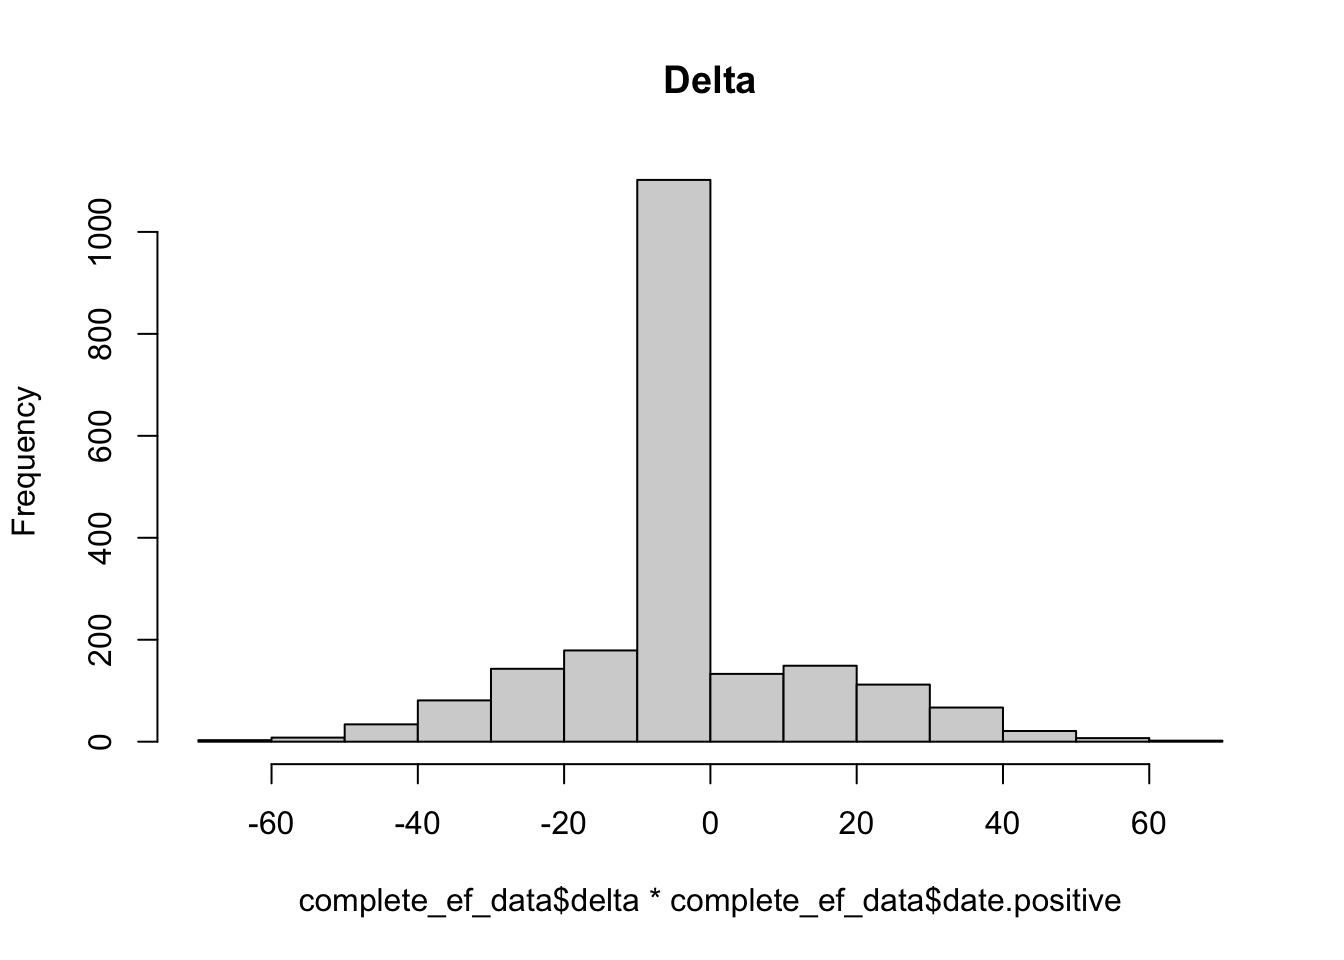
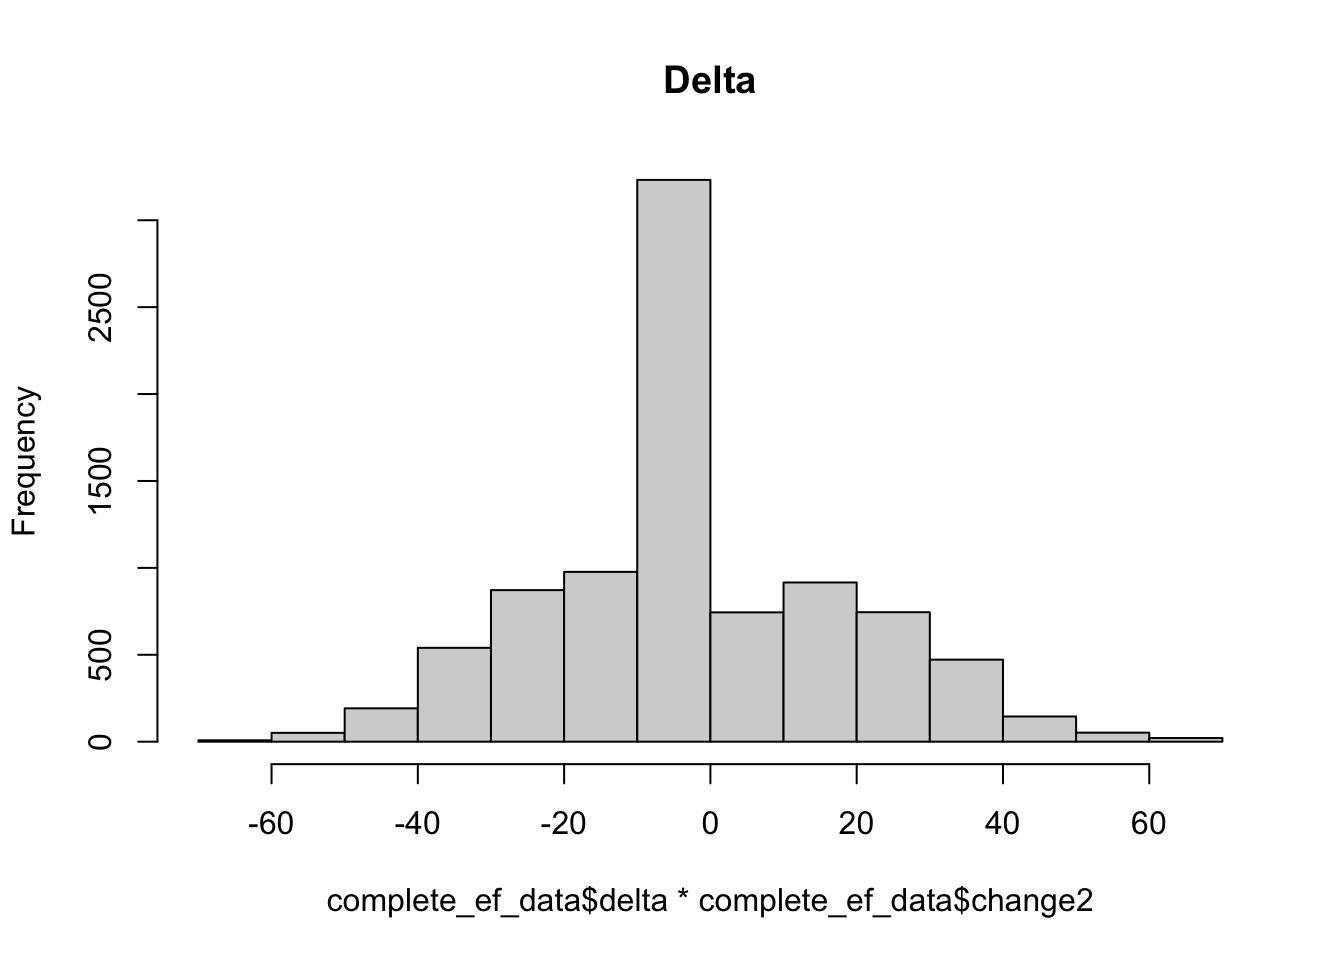
Build site.

diff --git a/docs/hf.html b/docs/hf.html
@@ -420,7 +420,7 @@ div.tocify {
 <div class="tab-content">
 <div id="summary" class="tab-pane fade in active">
 <p>
-<strong>Last updated:</strong> 2021-05-18
+<strong>Last updated:</strong> 2021-05-21
 </p>
 <p>
 <strong>Checks:</strong> <span class="glyphicon glyphicon-ok text-success" aria-hidden="true"></span> 7 <span class="glyphicon glyphicon-exclamation-sign text-danger" aria-hidden="true"></span> 0
@@ -511,16 +511,16 @@ This reproducible <a href="http://rmarkdown.rstudio.com">R Markdown</a> analysis
 <div class="panel panel-default">
 <div class="panel-heading">
 <p class="panel-title">
-<a data-toggle="collapse" data-parent="#workflowr-checks" href="#strongRepositoryversionstrongahrefhttpsgithubcomsurbuthfprojecttreec9ac48c69f7a98acf255bbef76fca776a82c7d8atargetblankc9ac48ca"> <span class="glyphicon glyphicon-ok text-success" aria-hidden="true"></span> <strong>Repository version:</strong> <a href="https://github.com/surbut/hfproject/tree/c9ac48c69f7a98acf255bbef76fca776a82c7d8a" target="_blank">c9ac48c</a> </a>
+<a data-toggle="collapse" data-parent="#workflowr-checks" href="#strongRepositoryversionstrongahrefhttpsgithubcomsurbuthfprojecttree6e7642bc229b6bc0d9f68f6370274d91f73427f6targetblank6e7642ba"> <span class="glyphicon glyphicon-ok text-success" aria-hidden="true"></span> <strong>Repository version:</strong> <a href="https://github.com/surbut/hfproject/tree/6e7642bc229b6bc0d9f68f6370274d91f73427f6" target="_blank">6e7642b</a> </a>
 </p>
 </div>
[2 lines of base64/hex data omitted]
 <div class="panel-body">
 <p>
 Great! You are using Git for version control. Tracking code development and connecting the code version to the results is critical for reproducibility.
 </p>
 <p>
-The results in this page were generated with repository version <a href="https://github.com/surbut/hfproject/tree/c9ac48c69f7a98acf255bbef76fca776a82c7d8a" target="_blank">c9ac48c</a>. See the <em>Past versions</em> tab to see a history of the changes made to the R Markdown and HTML files.
+The results in this page were generated with repository version <a href="https://github.com/surbut/hfproject/tree/6e7642bc229b6bc0d9f68f6370274d91f73427f6" target="_blank">6e7642b</a>. See the <em>Past versions</em> tab to see a history of the changes made to the R Markdown and HTML files.
 </p>
 <p>
 Note that you need to be careful to ensure that all relevant files for the analysis have been committed to Git prior to generating the results (you can use <code>wflow_publish</code> or <code>wflow_git_commit</code>). workflowr only checks the R Markdown file, but you know if there are other scripts or data files that it depends on. Below is the status of the Git repository when the results were generated:
@@ -528,6 +528,7 @@ Note that you need to be careful to ensure that all relevant files for the analy
 <pre><code>
 Ignored files:
     Ignored:    .DS_Store
+    Ignored:    .Rhistory
     Ignored:    data/.DS_Store
 
 Untracked files:
@@ -571,6 +572,40 @@ Message
 </tr>
 </thead>
 <tbody>
+<tr>
+<td>
+Rmd
+</td>
+<td>
+<a href="https://github.com/surbut/hfproject/blob/6e7642bc229b6bc0d9f68f6370274d91f73427f6/analysis/hf.Rmd" target="_blank">6e7642b</a>
+</td>
+<td>
+Your Name
+</td>
+<td>
+2021-05-21
+</td>
+<td>
+wflow_publish(“analysis/hf.Rmd”)
+</td>
+</tr>
+<tr>
+<td>
+html
+</td>
+<td>
+<a href="https://rawcdn.githack.com/surbut/hfproject/0e70d779c966b4a42d4515d0fe9ef13247e5869f/docs/hf.html" target="_blank">0e70d77</a>
+</td>
+<td>
+Your Name
+</td>
+<td>
+2021-05-18
+</td>
+<td>
+Build site.
+</td>
+</tr>
 <tr>
 <td>
 Rmd
@@ -801,62 +836,9 @@ mean_ef_min=apply(df_min,1,function(x){
 
 
 ef_max=df[,grep(names(df),pattern = &quot;EF_Max&quot;)]
-names(ef_max)</code></pre>
-<pre><code> [1] &quot;EF_Max.EchoDate&quot;                       
- [2] &quot;EF_Max..EF&quot;                            
- [3] &quot;EF_Max..DoppTricuspidPeakVelocity&quot;     
- [4] &quot;EF_Max..DoppTricuspidPeakEstGrad&quot;      
- [5] &quot;EF_Max..OutflowInflowStrokeVolume&quot;     
- [6] &quot;EF_Max..OutflowInflowCardiacOutput&quot;    
- [7] &quot;EF_Max..LVIDd2D&quot;                       
- [8] &quot;EF_Max..LVIDs2D&quot;                       
- [9] &quot;EF_Max..FractionalShortening2D&quot;        
-[10] &quot;EF_Max..LVEjectionFraction2D&quot;          
-[11] &quot;EF_Max..LVEFModSim4C&quot;                  
-[12] &quot;EF_Max..LVEFModSimp2C&quot;                 
-[13] &quot;EF_Max..LVEFModSim4C2D&quot;                
-[14] &quot;EF_Max..LVEFModSimp2C2D&quot;               
-[15] &quot;EF_Max..LVvolumesystole&quot;               
-[16] &quot;EF_Max..LVvolumediastole&quot;              
-[17] &quot;EF_Max..LVvolumeDiastole2d&quot;            
-[18] &quot;EF_Max..LVvolumesystole2d&quot;             
-[19] &quot;EF_Max..LVIDdInd&quot;                      
-[20] &quot;EF_Max..RVIDdInd&quot;                      
-[21] &quot;EF_Max..LVEFModSimpBiPlane&quot;            
-[22] &quot;EF_Max..LAVolumeSimpBiPlane&quot;           
-[23] &quot;EF_Max..MitralEPrimeLateralVelocity&quot;   
-[24] &quot;EF_Max..MitralEPrimeMedialVelocity&quot;    
-[25] &quot;EF_Max..MitralInflowEEPrimeLatRatio&quot;   
-[26] &quot;EF_Max..MitralInflowEEPrimeMedialRatio&quot;
-[27] &quot;EF_Max..LeftVentOutflowVTI&quot;            
-[28] &quot;EF_Max..LVDAMOD4C&quot;                     
-[29] &quot;EF_Max..LVDLMOD4C&quot;                     
-[30] &quot;EF_Max..LVDVMOD4C&quot;                     
-[31] &quot;EF_Max..LVSVMOD4C&quot;                     
-[32] &quot;EF_Max..CavitySize&quot;                    
-[33] &quot;EF_Max..GlobalFX&quot;                      
-[34] &quot;EF_Max..EFRange&quot;                       
-[35] &quot;EF_Max..EstimatedEF&quot;                   
-[36] &quot;EF_Max..EFMethod&quot;                      
-[37] &quot;EF_Max..NoLVH&quot;                         
-[38] &quot;EF_Max..ConcentricLVH&quot;                 
-[39] &quot;EF_Max..EccentricLVH&quot;                  
-[40] &quot;EF_Max..DiastolicFillingPattern&quot;       
-[41] &quot;EF_Max..DiastolicFillingPressure&quot;      
-[42] &quot;EF_Max..GradeofDysfunction&quot;            
-[43] &quot;EF_Max..YH_EF3DE&quot;                      
-[44] &quot;EF_Max..YH_GLSHide&quot;                    
-[45] &quot;EF_Max..YH_EFRangeHide&quot;                
-[46] &quot;EF_Max..YH_EFToReport&quot;                 
-[47] &quot;EF_Max..YH_GLSPercentDouble&quot;           
-[48] &quot;EF_Max..CavitySize1&quot;                   
-[49] &quot;EF_Max..GlobalFX1&quot;                     
-[50] &quot;EF_Max..Regurgitation&quot;                 
-[51] &quot;EF_Max..AnnularDilatation&quot;             
-[52] &quot;EF_Max..RVSP&quot;                          
-[53] &quot;EF_Max..PulmHtn&quot;                       
-[54] &quot;EF_Max..Echo_Indications&quot;              </code></pre>
-<pre class="r"><code>ef_max=df[,c(&quot;EF_Max..EF&quot;,&quot;EF_Max..LVEjectionFraction2D&quot;,&quot;EF_Max..EF&quot;,&quot;EF_Max..LVEjectionFraction2D&quot;,&quot;EF_Max..LVEFModSimpBiPlane&quot;,&quot;EF_Max..EstimatedEF&quot;)]      
+#names(ef_max)
+
+ef_max=df[,c(&quot;EF_Max..EF&quot;,&quot;EF_Max..LVEjectionFraction2D&quot;,&quot;EF_Max..EF&quot;,&quot;EF_Max..LVEjectionFraction2D&quot;,&quot;EF_Max..LVEFModSimpBiPlane&quot;,&quot;EF_Max..EstimatedEF&quot;)]      
 
 mean_ef_max=apply(ef_max,1,function(x)
   {x=as.numeric(x)
@@ -866,22 +848,8 @@ mean_ef_max=apply(ef_max,1,function(x)
 
 
 full_ef=data.frame(good_df,mean_ef_max,mean_ef_min)
-head(full_ef)</code></pre>
-<pre><code>          X Age.of.Death Gender Initial.BP..SYSTOLIC Earliest..Creatinine1
-1 MR1000313       3/4/19 Female                  132                  1.00
-2 MR1000917         &lt;NA&gt; Female                   82                  6.00
-3 MR1001042         &lt;NA&gt;   Male                  124                  0.97
-4 MR1001314      1/14/19 Female                  120                  0.79
-5 MR1001529       7/1/17   Male                  140                  0.70
-6 MR1002942         &lt;NA&gt;   Male                  134                  0.60
-  mean_ef_max mean_ef_min
-1    35.30000    35.30000
-2    27.00000    27.00000
-3    46.00000    37.00000
-4    18.60000    18.60000
-5    32.50000    32.50000
-6    31.38896    31.38896</code></pre>
-<pre class="r"><code>write.table(full_ef,&quot;data/full_ef.txt&quot;)</code></pre>
+
+write.table(full_ef,&quot;data/full_ef.txt&quot;)</code></pre>
 <p>Here I extract and convert dates:</p>
 <pre class="r"><code>library(&quot;lubridate&quot;)</code></pre>
 <pre><code>
@@ -889,33 +857,181 @@ Attaching package: &#39;lubridate&#39;</code></pre>
 <pre><code>The following objects are masked from &#39;package:base&#39;:
 
     date, intersect, setdiff, union</code></pre>
-<pre class="r"><code>ef_max_date=dmy(df[,&quot;EF_Max.EchoDate&quot;])</code></pre>
-<pre><code>Warning: 5385 failed to parse.</code></pre>
-<pre class="r"><code>ef_min_date=dmy(df[,&quot;EF_Min..EchoDate&quot;])</code></pre>
-<pre><code>Warning: 5418 failed to parse.</code></pre>
+<pre class="r"><code>ef_max_date=mdy(df[,&quot;EF_Max.EchoDate&quot;])
+ef_min_date=mdy(df[,&quot;EF_Min..EchoDate&quot;])
+
+###check to see that they overlap
+which(is.na(ef_max_date))</code></pre>
+<pre><code> [1]  309  839 2993 3871 4030 4117 4179 4230 4300 4346 4367 4841 4889 4993 5306
+[16] 5610 5626 5874 5950 6199 6206 6440 6707 7058 7174 7250 7260 7310 7350 7368
+[31] 7651 8936 8989 9001 9002 9003</code></pre>
+<pre class="r"><code>which(is.na(df$EF_Max.EchoDate))</code></pre>
+<pre><code> [1]  309  839 2993 3871 4030 4117 4179 4230 4300 4346 4367 4841 4889 4993 5306
+[16] 5610 5626 5874 5950 6199 6440 6707 7058 7174 7250 7260 7310 7350 7368 7651
+[31] 8936 8989</code></pre>
 <pre class="r"><code>d=ef_max_date-ef_min_date
-date.positive=d&gt;0</code></pre>
+
+change=ifelse(d&lt;0,-1,d)###return negative 1 if change in EF is negative
+change2=ifelse(change&gt;0,1,change)###return positive if change in EF is positive
+cbind(d,change2)[1:100,]## check to make sure encoded properly</code></pre>
+<pre><code>           d change2
+  [1,]     0       0
+  [2,]     0       0
+  [3,] -1046      -1
+  [4,]     0       0
+  [5,]     0       0
+  [6,]     0       0
+  [7,]  -617      -1
+  [8,]  -645      -1
+  [9,]     0       0
+ [10,]  -723      -1
+ [11,]     0       0
+ [12,]     0       0
+ [13,]  -181      -1
+ [14,]  -328      -1
+ [15,]   265       1
+ [16,]     0       0
+ [17,]  -935      -1
+ [18,]    -7      -1
+ [19,]  -503      -1
+ [20,]   140       1
+ [21,]  2031       1
+ [22,]  -162      -1
+ [23,]  -198      -1
+ [24,] -1026      -1
+ [25,]     0       0
+ [26,]   -51      -1
+ [27,]  -125      -1
+ [28,]     0       0
+ [29,]   565       1
+ [30,]     0       0
+ [31,] -1169      -1
+ [32,]   723       1
+ [33,]  -226      -1
+ [34,]     0       0
+ [35,]   279       1
+ [36,] -1438      -1
+ [37,]     0       0
+ [38,]   129       1
+ [39,]  -342      -1
+ [40,]  -257      -1
+ [41,]   406       1
+ [42,]  -490      -1
+ [43,]     0       0
+ [44,]   454       1
+ [45,]     0       0
+ [46,]  -948      -1
+ [47,]    28       1
+ [48,]   479       1
+ [49,]  -776      -1
+ [50,]   139       1
+ [51,]   503       1
+ [52,]     0       0
+ [53,]  -805      -1
+ [54,]     0       0
+ [55,]     0       0
+ [56,]  -146      -1
+ [57,]     0       0
+ [58,]   843       1
+ [59,]  -234      -1
+ [60,]  -427      -1
+ [61,]   250       1
+ [62,]    78       1
+ [63,]     0       0
+ [64,]  -105      -1
+ [65,] -2184      -1
+ [66,]     0       0
+ [67,]     0       0
+ [68,]     0       0
+ [69,]   153       1
+ [70,]  -456      -1
+ [71,]   928       1
+ [72,]   287       1
+ [73,]   569       1
+ [74,] -1122      -1
+ [75,]  -274      -1
+ [76,]   -38      -1
+ [77,]     0       0
+ [78,]     0       0
+ [79,]     0       0
+ [80,]     0       0
+ [81,]  -564      -1
+ [82,]   -65      -1
+ [83,]   783       1
+ [84,]    10       1
+ [85,]  -727      -1
+ [86,]  1030       1
+ [87,]     0       0
+ [88,]  -436      -1
+ [89,]  -103      -1
+ [90,]     0       0
+ [91,]   281       1
+ [92,]  -207      -1
+ [93,]  -694      -1
+ [94,]  -137      -1
+ [95,]  -562      -1
+ [96,]  -116      -1
+ [97,]  -224      -1
+ [98,]     0       0
+ [99,]     0       0
+[100,]  -663      -1</code></pre>
 <p>Here we divide the table into those with improved EF and no change in EF</p>
 <pre class="r"><code>delta=mean_ef_max-mean_ef_min
-
-full_ef=cbind(full_ef,delta,date.positive)
+full_ef=cbind(full_ef,delta,change2)
 full_ef$Gender=as.factor(full_ef$Gender)
 
 ## indicate positive and negative date
-complete_ef_data=full_ef[!is.na(full_ef$date.positive),]##only pull out the ones with two dates
-complete_ef_data$date.positive[complete_ef_data$date.positive==&quot;FALSE&quot;]=-1
-complete_ef_data$date.positive[complete_ef_data$date.positive==&quot;TRUE&quot;]=1
-
+complete_ef_data=full_ef[!is.na(full_ef$change2),]##only pull out the ones with two dates
 ###now plot real delta
 
-hist(complete_ef_data$delta*complete_ef_data$date.positive,main=&quot;Delta&quot;)</code></pre>
+hist(complete_ef_data$delta*complete_ef_data$change2,main=&quot;Delta&quot;)</code></pre>
 <p><img src="figure/hf.Rmd/unnamed-chunk-3-1.png" width="672" style="display: block; margin: auto;" /></p>
+<p>
+<button type="button" class="btn btn-default btn-xs btn-workflowr btn-workflowr-fig" data-toggle="collapse" data-target="#fig-unnamed-chunk-3-1">
+Past versions of unnamed-chunk-3-1.png
+</button>
+</p>
+<div id="fig-unnamed-chunk-3-1" class="collapse">
+<div class="table-responsive">
+<table class="table table-condensed table-hover">
+<thead>
+<tr>
+<th>
+Version
+</th>
+<th>
+Author
+</th>
+<th>
+Date
+</th>
+</tr>
+</thead>
+<tbody>
+<tr>
+<td>
+<a href="https://github.com/surbut/hfproject/blob/0e70d779c966b4a42d4515d0fe9ef13247e5869f/docs/figure/hf.Rmd/unnamed-chunk-3-1.png" target="_blank">0e70d77</a>
+</td>
+<td>
+Your Name
+</td>
+<td>
+2021-05-18
+</td>
+</tr>
+</tbody>
+</table>
+</div>
+</div>
 <pre class="r"><code>##This many are improving
-sum(complete_ef_data$date.positive==1)</code></pre>
-<pre><code>[1] 491</code></pre>
+sum(complete_ef_data$change2==1)</code></pre>
+<pre><code>[1] 3095</code></pre>
 <pre class="r"><code>##this many are getting worse
-sum(complete_ef_data$date.positive==-1)</code></pre>
-<pre><code>[1] 1550</code></pre>
+sum(complete_ef_data$change2==-1)</code></pre>
+<pre><code>[1] 3339</code></pre>
+<pre class="r"><code>summary(change2)</code></pre>
+<pre><code>    Min.  1st Qu.   Median     Mean  3rd Qu.     Max.     NA&#39;s 
+-1.00000 -1.00000  0.00000 -0.02721  1.00000  1.00000       36 </code></pre>
 <p>As we can see, no huge apparent differences in initital creatining and BP or gender composition.</p>
 <br>
 <p>
